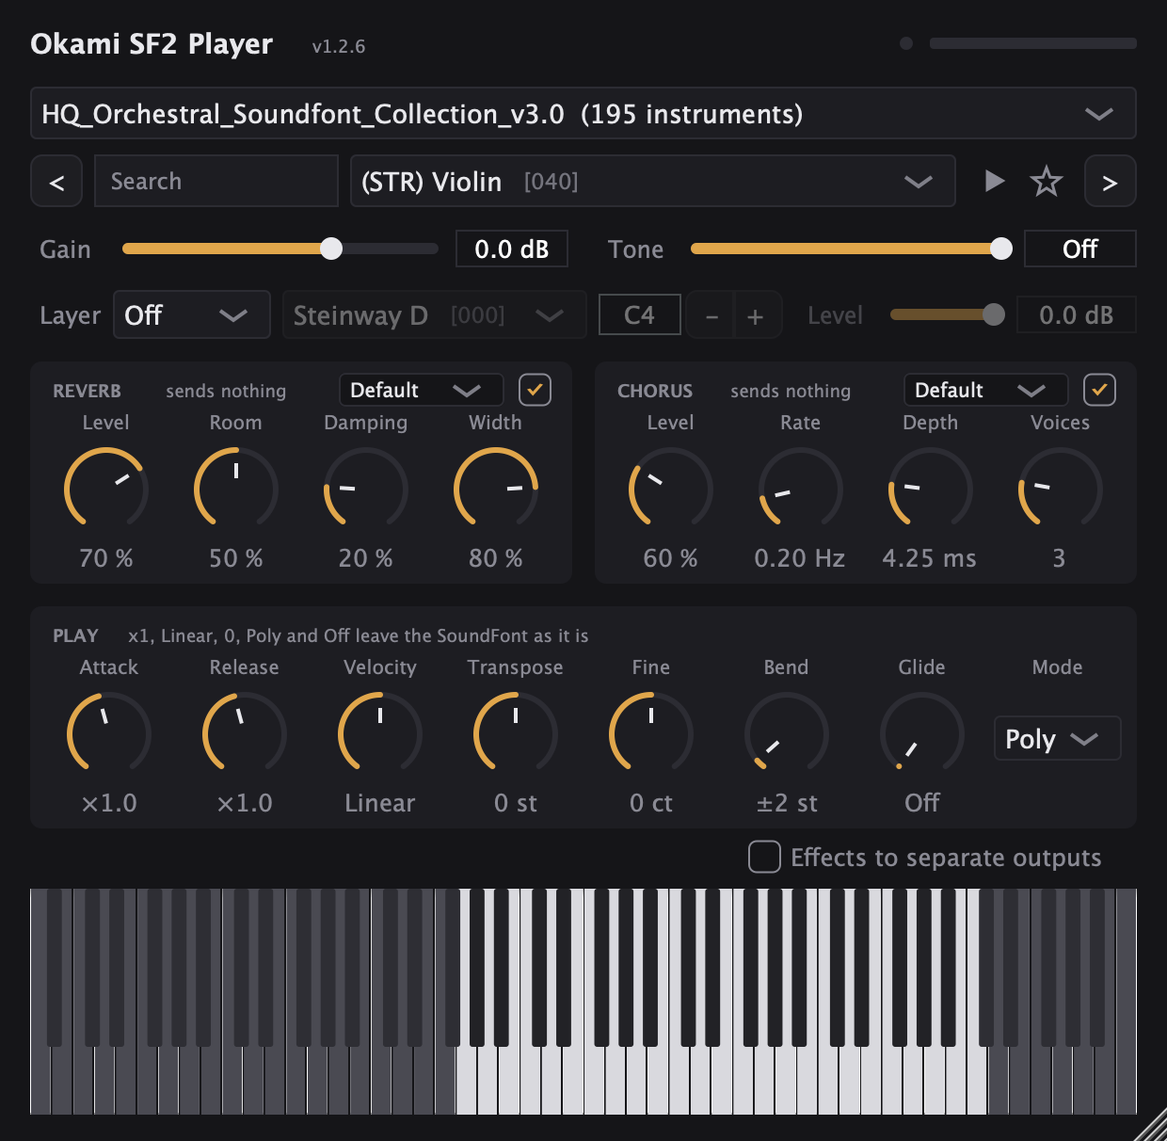
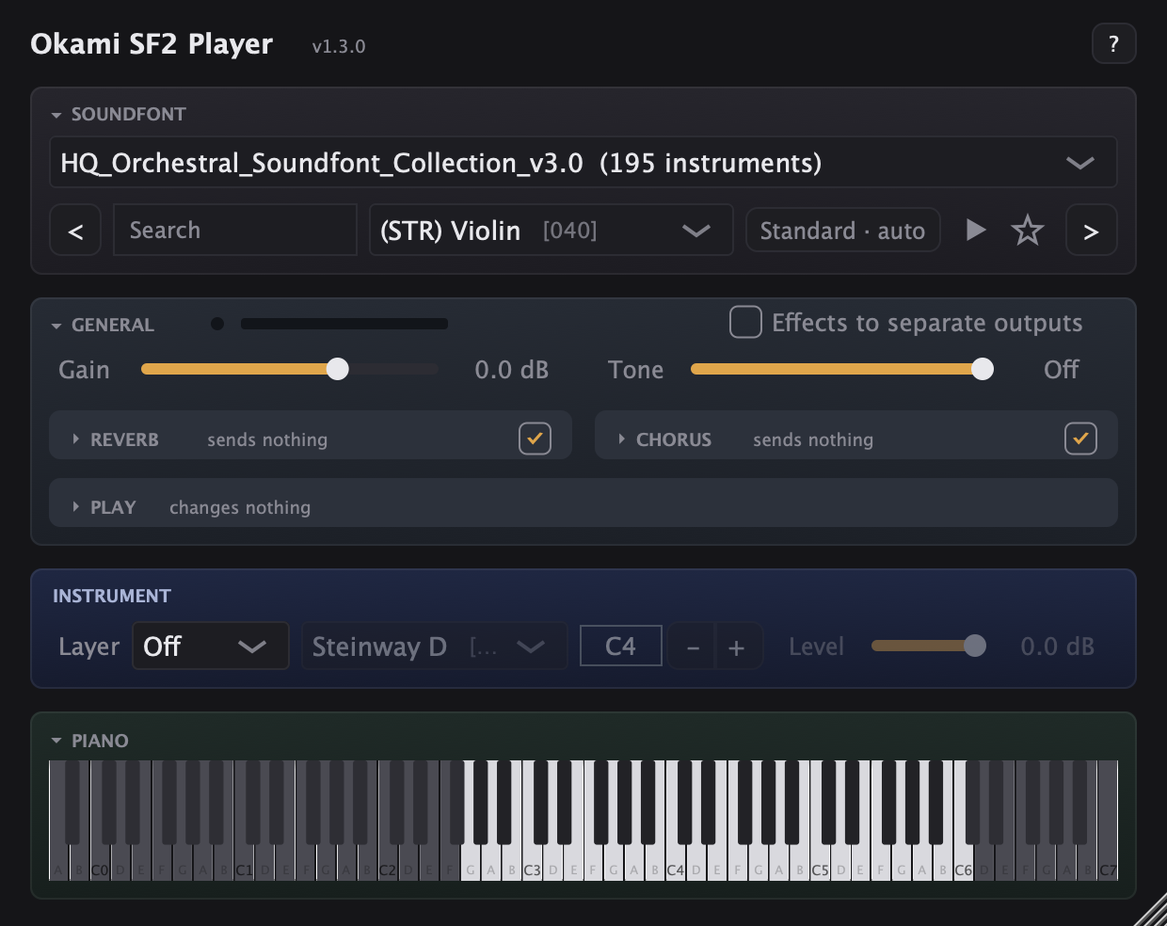
A new guitar starts in Chords with Pattern and Hold (presets still set them off unless named); each stroke lights its keys on the keyboard; last note's velocity beside the FX threshold; docs, credits (MusicLab RealGuitar, the guitar SoundFont), README with the Guitar panel and new screenshots

diff --git a/Source/PluginEditor.cpp b/Source/PluginEditor.cpp
@@ -132,6 +132,13 @@ void RangeKeyboard::drawWhiteNote (int note, juce::Graphics& g, juce::Rectangle<
     else
         g.setColour (fill);
     g.fillRect (key);
+    if (! isDown && strikeAlpha > 0.0f && isSounding (note))   // struck just now by the guitar: the whole key lights
+    {
+        const juce::Colour green (0xff62d86e);
+        g.setGradientFill (juce::ColourGradient::vertical (green.brighter (0.4f).withAlpha (0.9f * strikeAlpha), key.getY(),
+                                                           green.withAlpha (0.9f * strikeAlpha), key.getBottom()));
+        g.fillRect (key);
+    }
     g.setColour (SF2Look::background);
     g.drawVerticalLine ((int) area.getRight(), area.getY(), area.getBottom());
     if (isSounding (note)) drawSoundingDot (g, area, true);
@@ -161,6 +168,11 @@ void RangeKeyboard::drawBlackNote (int note, juce::Graphics& g, juce::Rectangle<
     else
         g.setColour (fill);
     g.fillRoundedRectangle (area, 1.5f);
+    if (! isDown && strikeAlpha > 0.0f && isSounding (note))
+    {
+        g.setColour (juce::Colour (0xff62d86e).withAlpha (0.95f * strikeAlpha));
+        g.fillRoundedRectangle (area, 1.5f);
+    }
     if (isSounding (note)) drawSoundingDot (g, area, false);
 }
 
@@ -641,6 +653,12 @@ SF2PlayerEditor::SF2PlayerEditor (SF2PlayerProcessor& p)
     addAndMakeVisible (keysButton);
     neck.setTooltip ("Click a string at a fret to draw a chord and see its name; click the name to hear it");
     keyboard.describe = [this] (int note) { return keyHint (note); };
+    lastVelocityLabel.setText ("play a note", juce::dontSendNotification);
+    lastVelocityLabel.setColour (juce::Label::textColourId, SF2Look::dim);
+    lastVelocityLabel.setFont (juce::FontOptions (12.0f));
+    lastVelocityLabel.setJustificationType (juce::Justification::centredRight);
+    lastVelocityLabel.setTooltip ("The velocity of the last note you played, as the guitar hears it (after Accent and the curve); a tick when it sets the Velocity FX off");
+    addChildComponent (lastVelocityLabel);
     neck.onShapeChanged = [this] (const std::array<int, 6>& frets) { player.setGuitarShape (frets); };
     neck.onAudition = [this]
     {
@@ -1233,6 +1251,7 @@ void SF2PlayerEditor::choosePresetItem (int id)
 float SF2PlayerEditor::presetValue (const GuitarPresets::Preset& preset, const juce::String& id) const
 {
     if (const auto found = preset.values.find (id); found != preset.values.end()) return found->second;
+    if (const auto found = GuitarPresets::base().find (id); found != GuitarPresets::base().end()) return found->second;
     if (auto* parameter = player.parameters.getParameter (id)) return parameter->convertFrom0to1 (parameter->getDefaultValue());
     return 0.0f;
 }
@@ -1469,6 +1488,12 @@ void SF2PlayerEditor::timerCallback()
         const int count = juce::jlimit (0, 6, view.count.load());
         for (int i = 0; i < 6; ++i) keyboard.sounding[(size_t) i] = i < count ? notes[(size_t) i] : -1;
         soundingAge = 0.0f;
+        keyboard.strikeAlpha = count > 0 ? 1.0f : 0.0f;   // this stroke presses its keys
+    }
+    if (keyboard.strikeAlpha > 0.0f)
+    {
+        keyboard.strikeAlpha = juce::jmax (0.0f, keyboard.strikeAlpha - 0.18f);   // gone in about a third of a second
+        keyboard.repaint();
     }
     {
         // Bright for the neck's three seconds, then fading out over one (only with the Guitar panel playing).
@@ -1531,6 +1556,21 @@ void SF2PlayerEditor::timerCallback()
     else if (midiFlash > 0)
         --midiFlash;
 
+    // Velocity FX: the last note's velocity as the engine hears it, lit when it sets the FX off.
+    if (lastVelocityLabel.isVisible())
+    {
+        const auto settings = player.guitarSettingsNow();
+        const int raw = player.lastVelocity.load();
+        const int heard = raw > 0 ? GuitarEngine::heardVelocity (settings, raw) : 0;
+        const bool below = settings.velocityFx == GuitarEngine::slowStrumLow || settings.velocityFx == GuitarEngine::veloMute;
+        const bool fires = heard > 0 && (below ? heard < settings.fxVelocity : heard >= settings.fxVelocity);
+        const auto text = heard > 0 ? "last note " + juce::String (heard) + (fires ? juce::String::fromUTF8 (" \xe2\x9c\x93") : juce::String()) : juce::String ("play a note");
+        if (lastVelocityLabel.getText() != text)
+        {
+            lastVelocityLabel.setText (text, juce::dontSendNotification);
+            lastVelocityLabel.setColour (juce::Label::textColourId, fires ? juce::Colour (0xff6fe07a) : SF2Look::dim);
+        }
+    }
     // PLAY's summary: the controls away from their defaults (none: it changes nothing).
     {
         juce::StringArray changes;
@@ -2167,6 +2207,7 @@ void SF2PlayerEditor::refreshModeOptions()
         flow (r, fxVelocitySlider, 84);
         if (fx != GuitarEngine::veloMute) { label (fxTimeLabel, "Time", true); flow (r, fxTimeLabel, 36); flow (r, fxTimeSlider, 110); }
         if (fx >= GuitarEngine::slideUp && fx <= GuitarEngine::reverseBend) { label (fxStepsLabel, "Steps", true); flow (r, fxStepsLabel, 40); flow (r, fxStepsSlider, 44); }
+        if (r.getWidth() > 60) put (lastVelocityLabel, r);   // what you played, at the row's end
     }
     if (mode == GuitarEngine::solo)
     {
@@ -2205,6 +2246,7 @@ void SF2PlayerEditor::refreshModeOptions()
                                         &chordBassToggle, &alterBassToggle, &bassMonoToggle, &soloFxBox, &pedalBox, &fxStepsSlider,
                                         &legatoStepsSlider, &legatoTimeSlider, &bassZoneTopSlider, &bassZoneToggle, &fxStepsLabel,
                                         &permanentLabel, &legatoStepsLabel, &legatoTimeLabel, &pedalLabel, &keySwitchesLabel };
+    all.push_back (&lastVelocityLabel);
     for (auto& button : fxButtons) all.push_back (button.get());
     for (auto& button : intervalButtons) all.push_back (button.get());
     for (auto& box : switchBoxes) all.push_back (&box);

diff --git a/Tests/PluginTests.cpp b/Tests/PluginTests.cpp
@@ -1105,6 +1105,32 @@ int main()
                     juce::String ((int) picked.ons.size()) + " tremolo picks, slide at " + juce::String (mid));
         }
 
+        // Slow if Hard on Pattern's strokes: a hard chord's strokes take Time, a soft one's don't.
+        {
+            auto spread = [&] (int velocity)
+            {
+                GuitarEngine g;
+                g.prepare (rate);
+                auto p = chordSettings (GuitarEngine::chords);
+                p.pattern = true;
+                p.strumMs = 30.0f;
+                p.velocityFx = GuitarEngine::slowStrumHigh;
+                p.fxVelocity = 90;
+                p.fxTimeMs = 150.0f;
+                take (g, p, { 60, 64, 67 }, 0, velocity);
+                drain (g, second);
+                g.stroke (p, 0, GuitarEngine::strokeDown, g.heldVelocity (0), second);
+                const auto h = drain (g, second * 2);
+                juce::int64 low = std::numeric_limits<juce::int64>::max(), high = 0;
+                for (auto [t, n] : h.ons) { low = juce::jmin (low, t); high = juce::jmax (high, t); }
+                std::printf ("    velocity %d: %d notes over %.0f ms\n", velocity, (int) h.ons.size(), (double) (high - low) * 1000.0 / rate);
+                return (double) (high - low) * 1000.0 / rate;
+            };
+            const double hard = spread (120), soft = spread (60);
+            expect (hard > 100.0 && soft < 60.0, "Slow if Hard slows Pattern's strokes of a hard chord only",
+                    juce::String (hard, 0) + " ms vs " + juce::String (soft, 0) + " ms");
+        }
+
         // Velocity FX in the chord modes: Velo Mute mutes a soft chord (not a hard one), Slide Down
         // comes into the note from above, fret by fret; and leaving the chord modes lets a chord
         // latched by Hold go.
@@ -1255,6 +1281,8 @@ int main()
             Player patterned (testFont);
             patterned.set ("guitarPanel", 1);
             patterned.set ("guitarDirect", 0);
+            patterned.set ("guitarPattern", 0);   // the panel starts with Pattern and Hold on
+            patterned.set ("guitarHold", 0);
             patterned.set ("guitarMode", 2);
             patterned.set ("guitarPattern", 1);
             patterned.set ("strumPattern", 0);   // Down Eighths
@@ -1280,9 +1308,12 @@ int main()
             });
         };
         Player plain (testFont), neutral (testFont), strummed (testFont);
-        neutral.set ("guitarPanel", 1);   // Direct, as it starts
+        neutral.set ("guitarPanel", 1);
+        neutral.set ("guitarDirect", 1);   // Direct
         strummed.set ("guitarPanel", 1);
         strummed.set ("guitarDirect", 0);
+        strummed.set ("guitarPattern", 0);   // the panel starts with Pattern and Hold on
+        strummed.set ("guitarHold", 0);
         strummed.set ("strum", 60);
         const auto a = chord (plain), b = chord (neutral), c = chord (strummed);
         expect (a == b, "Guitar: the panel on in Direct changes nothing (bit for bit)");
@@ -1296,6 +1327,8 @@ int main()
             Player doubled (testFont);
             doubled.set ("guitarPanel", 1);
             doubled.set ("guitarDirect", 0);
+            doubled.set ("guitarPattern", 0);   // the panel starts with Pattern and Hold on
+            doubled.set ("guitarHold", 0);
             doubled.set ("guitarMode", 0);   // Solo: the note as it comes, and its twin
             doubled.set ("doubleMix", 1.0f);
             juce::AudioBuffer<float> buffer (6, block);

diff --git a/Tests/TailTest.cpp b/Tests/TailTest.cpp
@@ -23,7 +23,14 @@ struct EditorTestAccess
     static void zones (SF2PlayerEditor& editor) { editor.keyboard.repeatZones = true; editor.player.keyboardState.noteOn (1, 60, 0.8f); editor.player.keyboardState.noteOn (1, 64, 0.8f); editor.player.keyboardState.noteOn (1, 67, 0.8f); editor.timerCallback(); editor.keyboard.repeatZones = true; }
     static void settle (SF2PlayerEditor& editor) { for (int i = 0; i < 2; ++i) { editor.resized(); editor.applyHeight(); } editor.resized(); }
     static void sounding (SF2PlayerEditor& editor) { editor.keyboard.sounding = { 48, 52, 55, 60, 64, 58 }; editor.keyboard.soundingAlpha = 1.0f; }
-    static void foldSound (SF2PlayerEditor& editor) { if (! editor.soundFolded) editor.toggleSound(); }
+    // SOUNDFONT folded or open for this snapshot only (not saved in the settings).
+    static void foldSound (SF2PlayerEditor& editor, bool folded)
+    {
+        editor.soundFolded = folded;
+        editor.showSoundContents();
+        editor.applyHeight();
+        editor.resized();
+    }
     // Picks a preset and prints what the menu shows, and any control that doesn't match it.
     static void preset (SF2PlayerEditor& e, int id)
     {
@@ -189,8 +196,8 @@ int main (int argc, char** argv)
             EditorTestAccess::guide (*dynamic_cast<SF2PlayerEditor*> (editor.get()), std::atoi (page));
         if (const char* hint = std::getenv ("HINT"))
             EditorTestAccess::hint (*dynamic_cast<SF2PlayerEditor*> (editor.get()), juce::String (hint));
-        if (std::getenv ("SOUNDFOLD") != nullptr)
-            if (auto* e = dynamic_cast<SF2PlayerEditor*> (editor.get())) EditorTestAccess::foldSound (*e);
+        if (auto* e = dynamic_cast<SF2PlayerEditor*> (editor.get()))   // open unless SOUNDFOLD, whatever the settings say
+            EditorTestAccess::foldSound (*e, std::getenv ("SOUNDFOLD") != nullptr);
         if (const char* id = std::getenv ("PRESETPICK"))
             if (auto* e = dynamic_cast<SF2PlayerEditor*> (editor.get())) EditorTestAccess::preset (*e, std::atoi (id));
         if (std::getenv ("GENERALFOLD") != nullptr)

diff --git a/Source/PluginProcessor.cpp b/Source/PluginProcessor.cpp
@@ -90,11 +90,11 @@ static juce::AudioProcessorValueTreeState::ParameterLayout makeLayout()
     layout.add (std::make_unique<juce::AudioParameterChoice> (juce::ParameterID { "guitarPanel", 6 }, "Guitar Panel",
                                                               juce::StringArray { "Auto", "On", "Off" }, 0));
     // Direct: a plain sampler, the guitar engine off (the default: the SoundFont as it is).
-    layout.add (std::make_unique<juce::AudioParameterBool> (juce::ParameterID { "guitarDirect", 6 }, "Guitar Direct", true));
+    layout.add (std::make_unique<juce::AudioParameterBool> (juce::ParameterID { "guitarDirect", 6 }, "Guitar Direct", false));   // a new guitar starts playing: Chords, Pattern, Hold
     layout.add (std::make_unique<juce::AudioParameterChoice> (juce::ParameterID { "guitarMode", 6 }, "Guitar Mode",
                                                               juce::StringArray { "Solo", "Harmony", "Chords", "Bass & Chord", "Bass & Pick" }, 2));
-    layout.add (std::make_unique<juce::AudioParameterBool> (juce::ParameterID { "guitarPattern", 6 }, "Guitar Pattern", false));
-    layout.add (std::make_unique<juce::AudioParameterBool> (juce::ParameterID { "guitarHold", 6 }, "Guitar Hold", false));
+    layout.add (std::make_unique<juce::AudioParameterBool> (juce::ParameterID { "guitarPattern", 6 }, "Guitar Pattern", true));
+    layout.add (std::make_unique<juce::AudioParameterBool> (juce::ParameterID { "guitarHold", 6 }, "Guitar Hold", true));
     {
         juce::StringArray names;
         for (const char* name : GuitarEngine::positionNames) names.add (name);

diff --git a/Source/Guide.h b/Source/Guide.h
@@ -173,7 +173,7 @@ private:
                 { "Bass & Chord", "The chord's bass plays. C5: the bass, D5: the second bass (the fifth), the other Repeat keys strum the upper strings." },
                 { "Bass & Pick", "The chord's bass plays. C5 and D5 the basses, E5, F5, G5 and A5 pick the 4th to the 1st string; C1 to D#1 strum the upper four." },
                 { "Pattern", "With the chord held in the Main zone, the rhythm chosen in the options plays by itself, in time with Ableton." },
-                { "Direct", "A plain sampler: every note as it comes, the SoundFont as it is. It's on until you choose a mode." },
+                { "Direct", "A plain sampler: every note as it comes, the SoundFont as it is. A new guitar starts in Chords with Pattern and Hold on instead; choosing a mode turns Direct off." },
                 { "Hold", "Chords keep sounding after the keys are let go, until the next chord." },
                 { "Options (the box under the modes)", "" },
                 { "Velocity FX", "What a note gets from a velocity (90 by default; hit hard): a slow strum, a slide into it from below or from above, a bend up to it, a reverse bend (pre-bent, released to it); under a velocity (45): a slow strum, or muted (Velo Mute). Time and Steps set how long and how far. The display names it when it fires." },

diff --git a/Source/PluginEditor.h b/Source/PluginEditor.h
@@ -140,6 +140,7 @@ struct RangeKeyboard : juce::MidiKeyboardComponent, juce::TooltipClient
     // What the guitar sounds (the notes on the neck), marked with the neck's green dots, fading as it does.
     std::array<int, 6> sounding { -1, -1, -1, -1, -1, -1 };
     float soundingAlpha = 0.0f;
+    float strikeAlpha = 0.0f;   // each stroke lights the keys it plays, briefly, as if pressed
     bool isSounding (int note) const { return soundingAlpha > 0.0f && std::find (sounding.begin(), sounding.end(), note) != sounding.end(); }
     void drawSoundingDot (juce::Graphics&, juce::Rectangle<float> key, bool white) const;
 
@@ -327,6 +328,7 @@ private:
     std::array<juce::TextButton, 6> stringButtons;
     void clickString (int index);
     LedButton chordBassToggle { "Chord/Bass" }, alterBassToggle { "Alter Bass" }, bassMonoToggle { "Bass Mono" };
+    juce::Label lastVelocityLabel;   // the last note's velocity, lit when it sets the FX off
     juce::Label fxLabel { {}, "Velocity FX" }, fxVelocityLabel { {}, "Velo" }, fxTimeLabel { {}, "Time" },
                 positionLabel { {}, "Chord Position" }, stringsLabel { {}, "Strings" }, stringsDash { {}, "-" },
                 repeatStringsLabel { {}, "Strings #" }, harmonyLabel { {}, "Interval" }, addOnLabel { {}, "Add-on keys" },

diff --git a/Source/GuitarPresets.h b/Source/GuitarPresets.h
@@ -38,7 +38,15 @@ struct Preset
     bool user = false;
 };
 
-// The built-in presets, each a different way to play: only what differs from the defaults.
+// What a preset that doesn't name them sets: Direct, Pattern and Hold off (their defaults are on,
+// for a first try, but a preset is a sound of its own).
+inline const std::map<juce::String, float>& base()
+{
+    static const std::map<juce::String, float> values { { "guitarDirect", 0 }, { "guitarPattern", 0 }, { "guitarHold", 0 } };
+    return values;
+}
+
+// The built-in presets, each a different way to play: only what differs from base() and the defaults.
 inline const std::vector<Preset>& builtIns()
 {
     using E = GuitarEngine;

diff --git a/Source/GuitarEngine.h b/Source/GuitarEngine.h
@@ -640,6 +640,8 @@ public:
         int fx = fxOff;              // the Velocity Switch FX it fired, if any
     };
     const LastPlayed& lastPlayed() const { return last; }
+    // A velocity as the engine hears it (after Accent and the curve): what Velocity FX compare.
+    static int heardVelocity (const Settings& s, int velocity) { return shapeVelocity (s, velocity); }
 
     // A chord is held (or kept by Hold) on `channel`: since when (-1: none) and how hard.
     juce::int64 heldSince (int channel) const

diff --git a/Source/PluginProcessor.h b/Source/PluginProcessor.h
@@ -107,6 +107,7 @@ public:
         std::atomic<bool> up { false }, strummed { false }, palm { false };
         std::atomic<int> fx { 0 };                  // the Velocity Switch FX it fired (0: none)
     };
+    GuitarEngine::Settings guitarSettingsNow() const { return currentGuitarSettings(); }   // for the editor
     int guitarTuning() const { return juce::roundToInt (parameters.getRawParameterValue ("guitarTuning")->load()); }
     GuitarView guitarView;
 

diff --git a/README.md b/README.md
@@ -15,11 +15,21 @@ not included:** download it separately from that page and open it in the plugin.
 **It plays any SoundFont**, not only that one: any General MIDI set, piano, drum kit or synth
 in .sf2 or .sf3 (thousands are free on musical-artifacts.com and elsewhere).
 
+**Guitars play like a guitarist** (new in 1.3): with a guitar loaded, the **Guitar panel** turns
+the keyboard into a guitar the way MusicLab RealGuitar does. Chords taken in the Main zone are
+voiced on a real neck and strummed (or played by a rhythm Pattern, in time with Ableton); Repeat
+keys strum them up and down; Solo, Harmony, Bass & Chord and Bass & Pick modes, Velocity FX
+(slow strums, slides, bends, mutes), presets of your own. Try it with
+[MusicLab RealGuitar Acoustic Guitars](https://musical-artifacts.com/artifacts/3655) (free on
+musical-artifacts.com, license marked "gray" there; not included).
+
 How to use it: [DOCS.md](DOCS.md). Versions: [CHANGELOG.md](CHANGELOG.md). Credits and
 licenses: [CREDITS.md](CREDITS.md). What each HQ Orchestral instrument sends to the reverb and
 chorus: [docs/HQ-Orchestral-sends.md](docs/HQ-Orchestral-sends.md).
 
 ![Okami SF2 Player playing the HQ Orchestral collection's violin](docs/screenshot.png)
+
+![The Guitar panel strumming a C chord with the Folk pattern](docs/guitar.png)
 
 ## Download and install
 
@@ -97,7 +107,8 @@ or credential file, or a personal pattern (listed in the ignored `scripts/releas
 | `Source/PluginProcessor.h/.cpp` | parameters, the FluidSynth engine (created, swapped under a lock), MIDI routing (transpose, velocity curve, layer/split, program changes), MIDI kept while the engine is busy, rendering into six channels, tone filter, gain, outputs, saved state, missing-file handling |
 | `Source/PluginEditor.h/.cpp` | the look (`SF2Look`), the keyboard with key ranges and the split tint, every control, instrument lists by family with favorites, effect presets, preview |
 | `Source/ChordName.h` | chord names from pitch classes (about 45 types, partial chords, slash chords) |
-| `Source/GuitarNeck.h` | the Guitar panel's strip: chord name, six-string neck, strum arrow, palm light |
+| `Source/GuitarNeck.h` | the Guitar panel's strip: chord name, six-string neck, strum arrow, palm and FX lights, the pattern's name |
+| `Source/GuitarPresets.h` | the Guitar panel's presets: every control it holds, the built-in ones, the user's (as XML in the settings) |
 | `Source/GuitarEngine.h` | the Guitar panel's engine: keyboard zones, modes, chords recognized and voiced by position, strums, basses and strings, palm-muted, humanized, doubled; fixed arrays, audio thread only |
 | `Source/Guide.h` | the ? button's guide and About |
 | `Source/SoundFontInfo.h` | what FluidSynth doesn't expose, read from the file itself: name, author, comment, each preset's key range and reverb/chorus sends (bounded against hostile files) |
@@ -221,7 +232,7 @@ Settings file `~/Library/Application Support/SF2 Player/SF2 Player.settings`: `r
 
 ## Tests
 
-`ctest` runs `PluginTests` (64 checks). Each renders through the real processor and fails on a
+`ctest` runs `PluginTests` (68 checks). Each renders through the real processor and fails on a
 wrong result:
 
 - **Fidelity:** bit-identical output to FluidSynth at the defaults.
@@ -234,7 +245,7 @@ wrong result:
 - **State and files:** the saved state (file, instruments, knobs), saving without waiting for a
   load, a missing file kept, a file lost during a rate change reported then reloaded, a failed
   rebuild not undoing a newer file, global key ranges, hostile files refused quickly.
-- **Guitar panel:** chord recognition and Chord Position voicings, each mode's keys (Repeat strums, basses, picked strings, Harmony's intervals, Solo's repeats, Velo Mute, Hold, Strings, slow strums), strum order and timing, every string ended on release, Direct bit-identical, chord names (full, partial, intervals), notes never left on by a release mid-strum or a palm cut, strumming spreading a chord's start, Double's twin later on the right, tremolo swinging, chord names and the neck's string placement.
+- **Guitar panel:** chord recognition and Chord Position voicings, each mode's keys (Repeat strums, basses, picked strings, Harmony's intervals, Solo's repeats, Velo Mute, Hold, Strings, slow strums), Velocity FX in every mode (Velo Mute on soft chords, Slide Down from above, Slow if Hard on Pattern's strokes), a held chord let go when the mode leaves the chord modes, presets (real parameters, each different, the user's kept through the settings), strum order and timing, every string ended on release, Direct bit-identical, chord names (full, partial, intervals), notes never left on by a release mid-strum or a palm cut, strumming spreading a chord's start, Double's twin later on the right, tremolo swinging, chord names and the neck's string placement.
 - **CPU:** 64 string notes under 30 % of a 128-sample block (reported, not judged, under
   Rosetta).
 
@@ -243,7 +254,9 @@ collection (195 instruments, 125 with reverb sends, 47 with chorus).
 
 `TailTest` tools: `<file> <preset> wav <out.wav> <key> [tone Hz]` (`EFFECTS=1` keeps the reverb
 and a 15 ms chorus on), `<file> <preset> perf` (`INTERP=4..7` picks the interpolation),
-`<file> sends`, `<file> <preset> snap <out.png> [sends]` (`LAYER=2` for split).
+`<file> sends`, `<file> <preset> snap <out.png> [sends]` (`LAYER=2` for split; for the Guitar
+panel `MODE`, `PATTERN`, `VFX`, `CHORD`, `SHAPE`, `CONTROLLERS`, `ZONES`, `SOUNDING`, `SOUNDFOLD`,
+`GENERALFOLD`, `PRESETPICK`, `GUIDE`, `HINT`).
 
 ## Releasing
 

diff --git a/DOCS.md b/DOCS.md
@@ -144,8 +144,19 @@ MIDI programs 24-31, or an instrument named "guitar" or "gtr"). The button besid
 says what it got, **Guitar** or **Standard** (with "· auto" when detected). For a SoundFont that doesn't follow General MIDI (a
 guitar on program 0, a piano named "Gtr"), click it and choose **Guitar panel** or **Standard**;
 **Automatic** goes back to detecting. The choice is remembered for that instrument of that SoundFont, in every
-project. The panel starts in **Direct**: every note as it comes, the SoundFont exactly as it is.
-Choosing a mode turns Direct off.
+project. A new guitar starts ready to try: **Chords** with **Pattern** (Folk) and **Hold** on, so a
+chord in the Main zone keeps strumming by itself. **Direct** (in the title bar) turns the panel
+into a plain sampler: every note as it comes, the SoundFont exactly as it is; choosing a mode turns
+it off. What you set is saved with the project.
+
+**The neck and the keyboard follow what the guitar plays:** each stroke lights the strings on the
+neck and, for a moment, the keys it sounds on the keyboard below (green dots stay on them while
+the chord rings).
+
+A guitar SoundFont to try it with:
+[MusicLab RealGuitar Acoustic Guitars](https://musical-artifacts.com/artifacts/3655) (Simone
+Piervergili, 50 MB, steel and nylon guitars). Its license there is "gray": it was sampled from a
+commercial instrument, so check that its use is fine for you.
 
 **Zones.** The **Main zone** (E1-B4, MIDI 40-83: the guitar's own range) plays notes or takes
 chords. The **Repeat zones** (C1-D#1 and C5-C6, tinted on the keyboard) repeat what the Main zone

diff --git a/CREDITS.md b/CREDITS.md
@@ -20,6 +20,19 @@ brass and woodwinds shaped a lot of music, ours included. Okami SF2 Player isn't
 or endorsed by Roland, contains none of its software or samples, and doesn't run the original
 plugin: it plays SoundFonts. Edirol and Roland are trademarks of Roland Corporation.
 
+## MusicLab RealGuitar
+
+The Guitar panel plays SoundFonts the way **MusicLab RealGuitar** plays its guitars: its modes
+(Solo, Harmony, Chords, Bass & Chord, Bass & Pick), its keyboard zones, Chord Position, Velocity
+Switch FX and Pattern follow RealGuitar's design, written anew from its public manual. No code,
+samples or artwork come from it, and Okami SF2 Player isn't affiliated with or endorsed by
+MusicLab. MusicLab and RealGuitar are trademarks of MusicLab, Inc.
+
+A guitar SoundFont to try the panel with, not part of this project:
+[MusicLab RealGuitar Acoustic Guitars](https://musical-artifacts.com/artifacts/3655), shared by
+Simone Piervergili on musical-artifacts.com, where its license is marked "gray" (sampled from a
+commercial instrument).
+
 ## The HQ Orchestral SoundFont Collection
 
 Okami SF2 Player was made to play the
